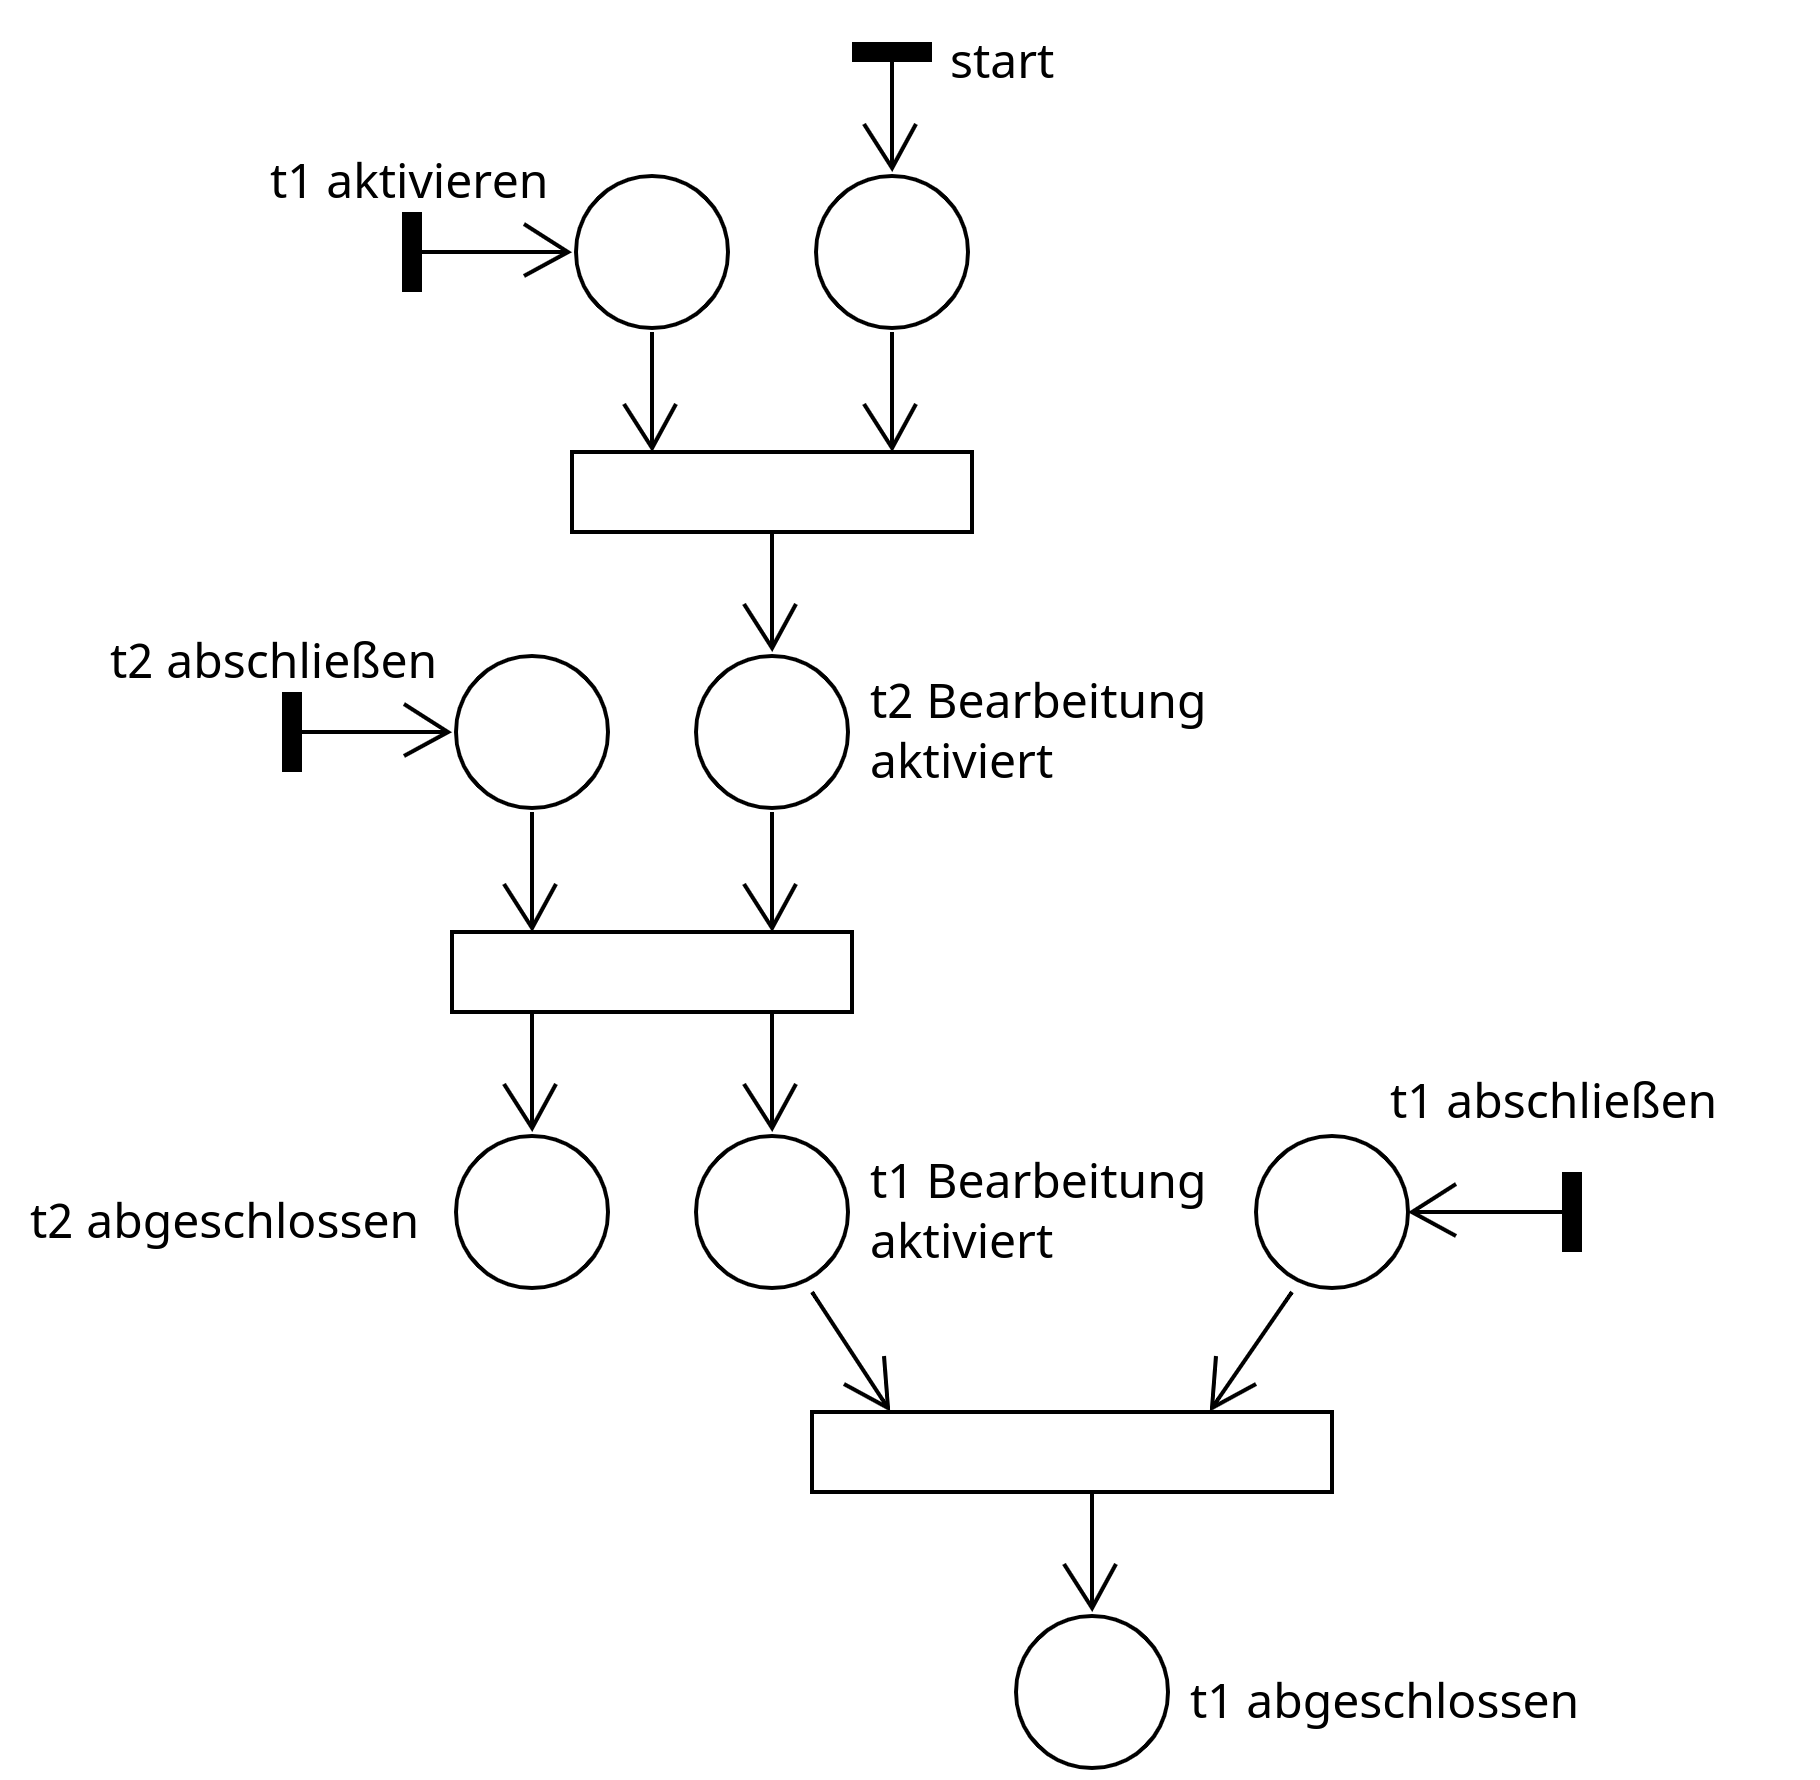
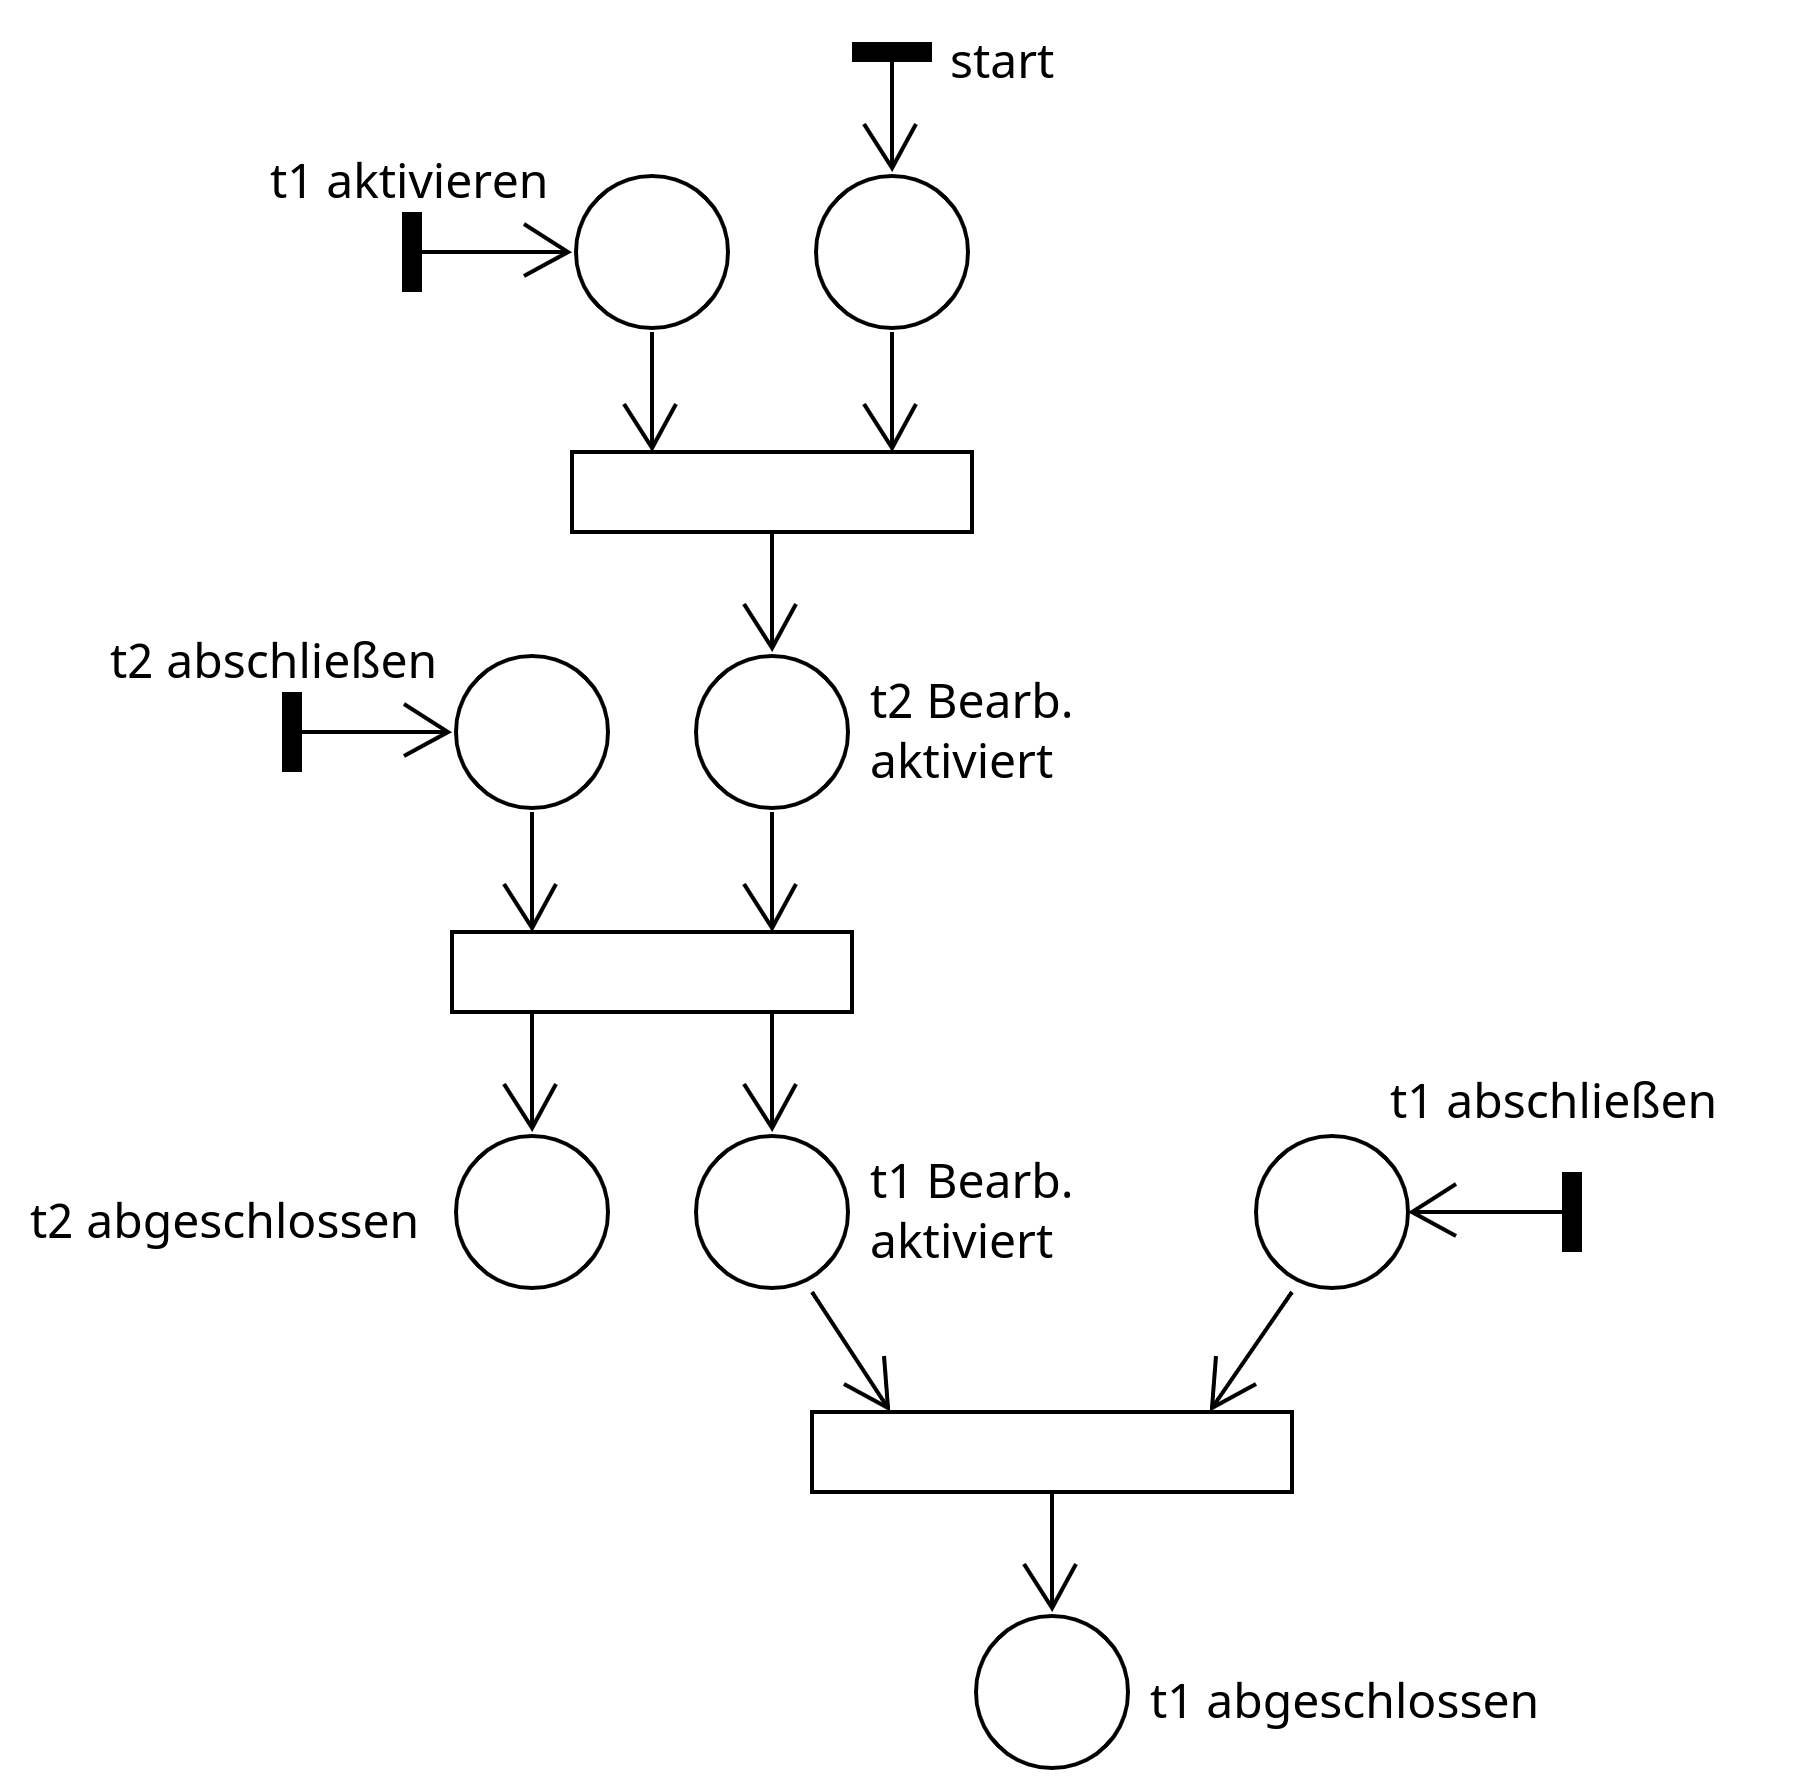
Add translation into petri-net for mandatory subtask(s)

diff --git a/doc/control_mechanisms/petri_nets.md b/doc/control_mechanisms/petri_nets.md
@@ -32,11 +32,25 @@ Eine Aufgabe kann folgende Zustände haben:
 - **fertig bearbeitet**: Die Studierenden haben eine Antwort für eine Aufgabe abgegeben, hat Feedback darüber bekommen
   und die Aufgabe wird nicht mehr im Questlog angezeigt
 
-Folgende Abhängigkeiten zwischen zwei Aufgaben $t_1$ und $t_2$ sind möglich:
+### Aspekte bezüglich der Übersetzung des Abhängigkeitsgraphen in ein Petri-Netz
 
-**Erforderliche Teilaufgabe**
+Zur Übersetzung des Abhängigkeitsgraphen in ein Petri-Netz sind folgende Aspekte zu beachten:
+- Die Stellen des Netzes sollen zur Modellierung des Zustands der Aufgaben genutzt werden
+- Das Petri-Netz soll allein durch die Belegung der Stellen Transitionen ausführen
 
-![Erforderliche Teilaufgabe](img/mandatory_subtask.png)
+Hieraus resultieren folgende Designentscheidungen:
+- Für jede Aufgabe existiert eine Stelle, die (falls markiert) angibt, ob die Aufgabe aktuell zur Bearbeitung
+  freigeschaltet ist
+- Für jede Aufgabe existiert eine Stelle, die (falls markiert) angibt, ob die Aufgabe abgeschlossen ist
+- Es muss eine Schnittstelle zum Dungeon / zur DSL vorgesehen werden, über die dem Petri-Netz mitgeteilt
+  werden kann, dass eine Aufgabe bearbeitet wurde. Diese Information wird nicht vom Petri-Netz selbst abgefragt,
+  sondern vom Dungeon / der DSL an das Petri-Netz übermittelt, da dieser Prozess eng mit dem konkreten Szenario
+  verknüpft ist, welches in der DSL definiert ist.
+
+
+### Erforderliche Teilaufgabe
+
+![Erforderliche Teilaufgabe: Graph](img/mandatory_subtask.png)
 
 Für $t_2$ muss eine Antwort abgegeben werden, bevor $t_1$ abgeschlossen werden kann;
 $t_1$ wird zuerst aktiviert und bleibt aktiv, während $t_2$ bearbeitet wird.
@@ -50,7 +64,40 @@ task_dependency t {
 }
 ```
 
-**Optionale Teilaufgabe**
+Das erzeugte Petri-Netz für diese Beziehung sieht wie folgt aus:
+
+![Erforderliche Teilaufgabe: Petri-Netz](img/mandatory_subtask_petri.png)
+
+Die Transitionen, die von links und rechts in das Petri-Netz übergehen (z.B. "t1 aktivieren", "t2 abschließen"),
+sind die Schnittstellen zum Dungeon / zur DSL.
+
+Der Zustand einer Aufgabe (z.B. $t_1$) kann aus der Kombination der Stellen "t1 Bearb. aktiviert" und "t1 abgeschlossen"
+hergeleitet werden. In den Transitionen können Aktionen ausgeführt werden, wie z.B. eine Aufgabe im Questlog anzuzeigen,
+oder sie aus dem Questlog zu löschen. Der Zustand **aktiv ohne Bearbeitung** wird daher nicht explizit im Petri-Netz
+modelliert.
+
+Es folgt:
+
+- Stelle "t1 Bearb. aktiviert" und "t1 abgeschlossen" sind beide **nicht markiert** = Zustand **inaktiv**
+- Stelle "t1 Bearb. aktiviert" ist **markiert** und "t1 abgeschlossen" ist **nicht markiert** = Zustand **aktiv mit Bearbeitung**
+- Stelle "t1 Bearb. aktiviert" ist **nicht markiert** und "t1 abgeschlossen" ist **markiert** = Zustand **fertig bearbeitet**
+
+Eine Aufgabe kann mehrere erforderliche Teilaufgaben haben, wie im folgenden Graph dargestellt:
+
+![Mehrere erforderliche Teilaufgaben: Graph](img/multi_mandatory_subtask.png)
+
+Das entsprechende Petri-Netz sieht so aus:
+
+![Mehrere erforderliche Teilaufgaben: Petri-Netz](img/multi_mandatory_subtask_petri.png)
+
+Der grün markierte Bereich dient zur Behandlung von $t_2$, der blau markierte Bereich dient zur Behandlung von $t_3$.
+Weitere Teilaufgaben würden auf der gleichen Ebene mit der gleichen Petri-Netz-Struktur hinzugefügt werden.
+Der rot markierte Bereich dient zur Überprüfung, ob beide Teilaufgaben abgeschlossen sind, bevor die Bearbeitung von $t_1$
+freigeschaltet wird. Die Transition in diesem Bereich konsumiert jeweils ein Token von den Stellen "t2 abgeschlossen" und
+"t3 abgeschlossen", daher werden diese Stellen jeweils mit 2 Tokens markiert (wie an deren eingehenden Kanten durch "+2"
+markiert).
+
+### Optionale Teilaufgabe
 
 ![Optionale Teilaufgabe](img/optional_subtask.png)
 
@@ -66,7 +113,7 @@ task_dependency t {
 }
 ```
 
-**Aufgabensequenz**
+### Aufgabensequenz
 
 ![Erforderliche Sequenz](img/mandatory_sequence.png)
 
@@ -93,7 +140,7 @@ task_dependency t {
 }
 ```
 
-**Bedingte Folgeaufgabe**
+### Bedingte Folgeaufgabe
 
 Gegeben sei eine dritte Aufgabe $t_3$.
 
@@ -115,7 +162,7 @@ task_dependency t {
 }
 ```
 
-**Kombination der Beziehungen**
+### Kombination der Beziehungen
 
 Die vorgestellten Beziehungen können beliebig kombiniert werden, wie in folgendem Beispiel:
 
@@ -129,17 +176,3 @@ Es sei besonders auf die folgenden Beziehungen hingewiesen:
 Diese Beziehungen haben den Effekt, dass erst $t_2$, dann $t_4$ und $t_5$ (als Teilaufgaben von $t_3$) und anschließend
 $t_3$ bearbeitet werden müssen, bevor der linke Zweig unter $t_1$ als abgeschlossen gilt.
 
-## Übersetzung des Abhängigkeitsgraphen in ein Petri-Netz
-
-Zur Übersetzung des Abhängigkeitsgraphen in ein Petri-Netz sind folgende Aspekte zu beachten:
-- Die Stellen des Netzes sollen zur Modellierung des Zustands der Aufgaben genutzt werden
-- Das Petri-Netz soll allein durch die Belegung der Stellen Transitionen ausführen
-
-Hieraus resultieren folgende Designentscheidungen:
-- Für jede Aufgabe existiert eine Stelle, die (falls markiert) angibt, ob die Aufgabe aktuell zur Bearbeitung
-  freigeschaltet ist
-- Für jede Aufgabe existiert eine Stelle, die (falls markiert) angibt, ob die Aufgabe abgeschlossen ist
-- Es muss eine Schnittstelle zum Dungeon / zur DSL vorgesehen werden, über die dem Petri-Netz mitgeteilt
-  werden kann, dass eine Aufgabe bearbeitet wurde. Diese Information wird nicht vom Petri-Netz selbst abgefragt,
-  sondern vom Dungeon / der DSL an das Petri-Netz übermittelt, da dieser Prozess eng mit dem konkreten Szenario
-  verknüpft ist, welches in der DSL definiert ist.
